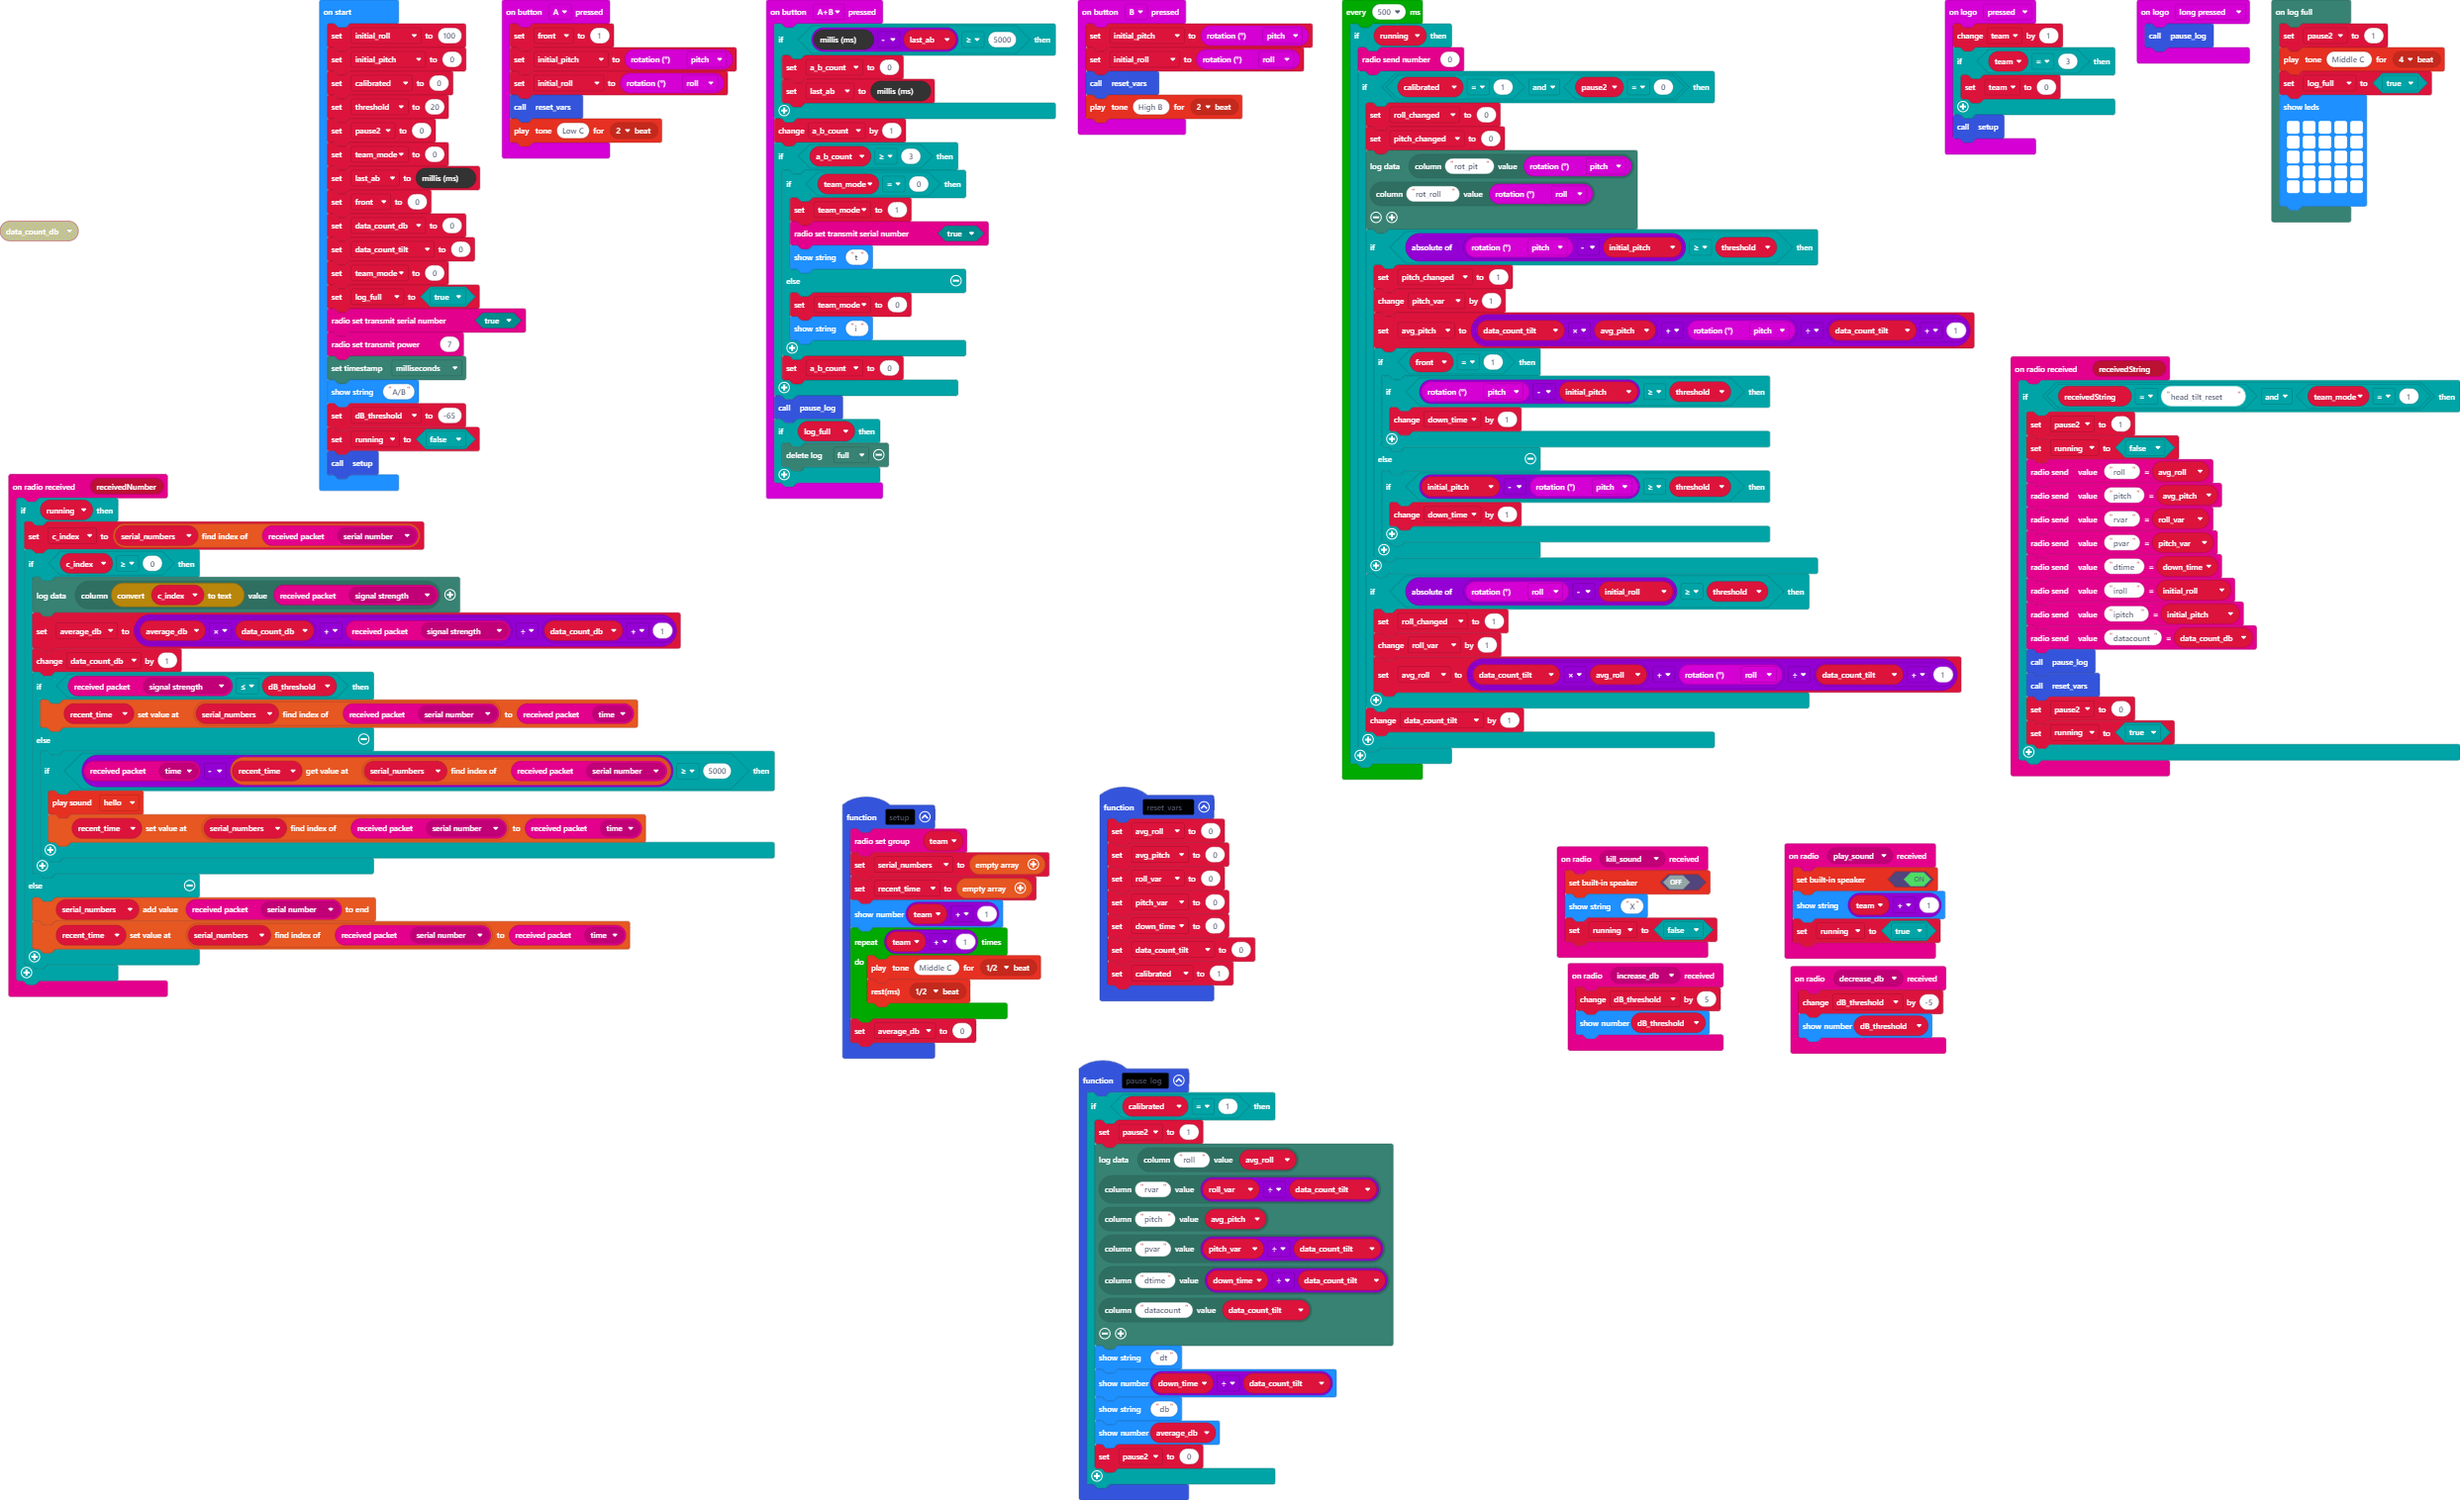
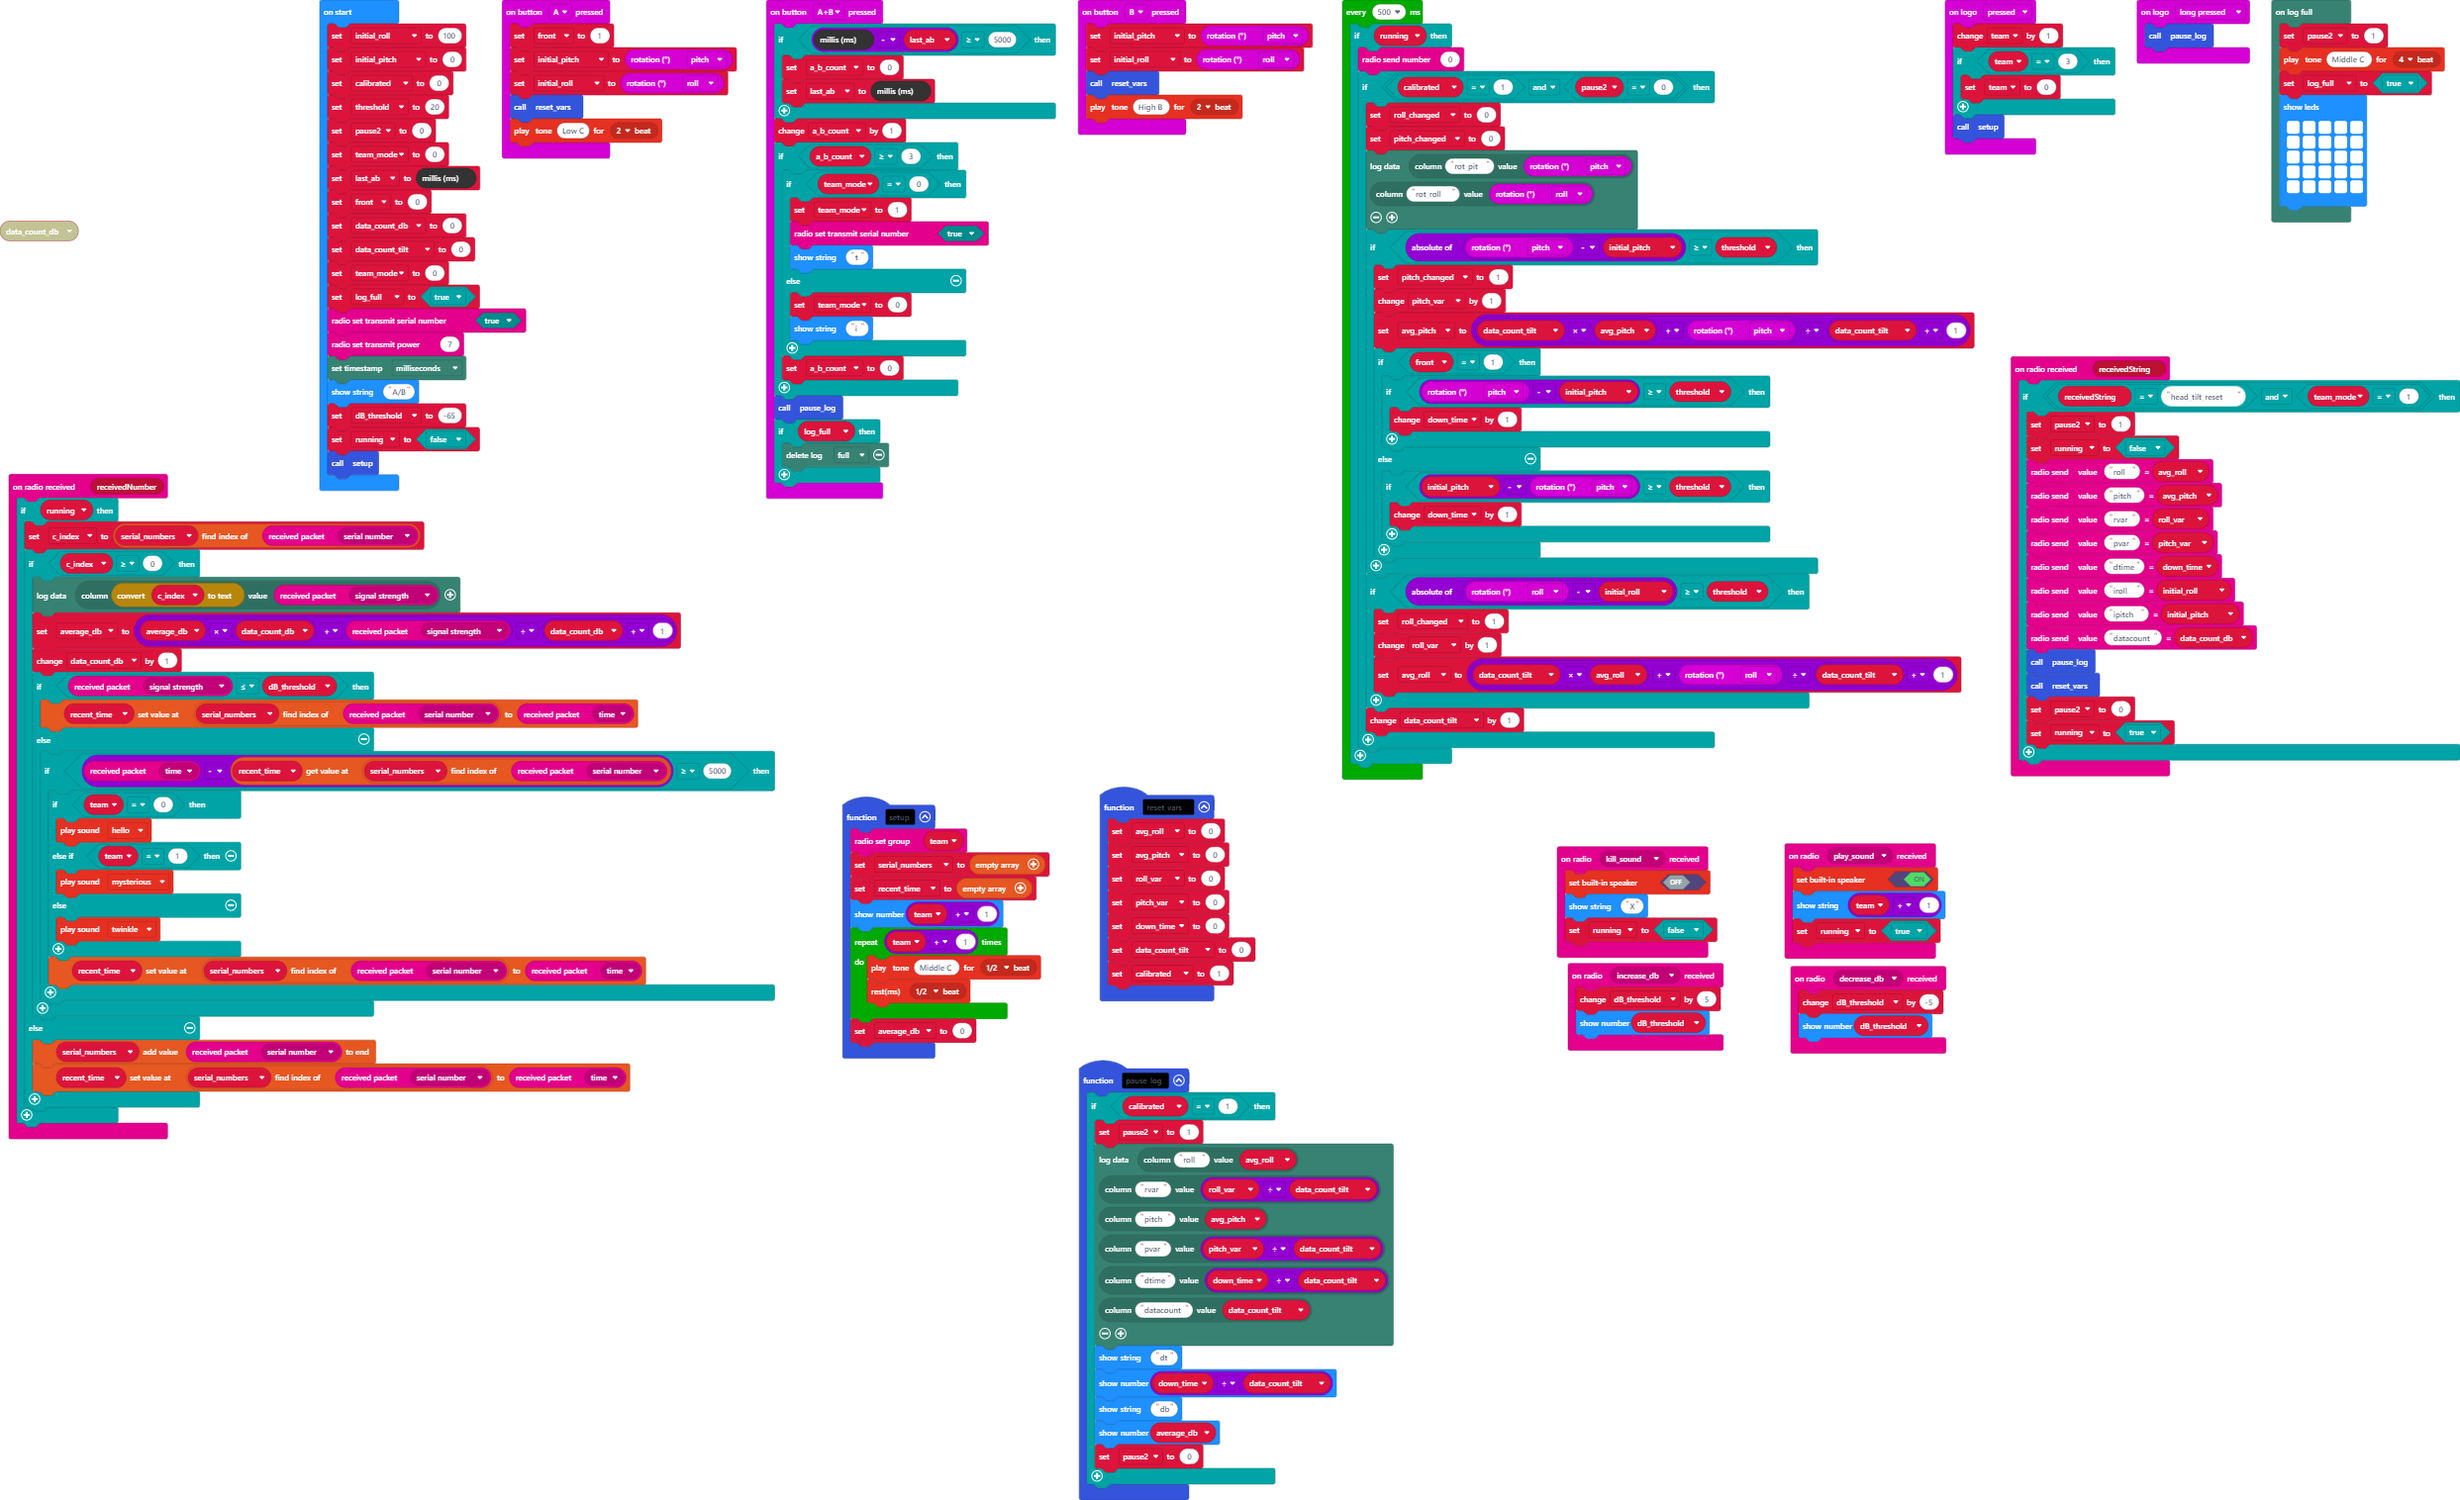
Update main.blocks, main.ts

Changed region(s): [[0.0, 0.527, 0.3099, 0.7751]]

diff --git a/main.ts b/main.ts
@@ -17,7 +17,13 @@ radio.onReceivedNumber(function (receivedNumber) {
                 recent_time[serial_numbers.indexOf(radio.receivedPacket(RadioPacketProperty.SerialNumber))] = radio.receivedPacket(RadioPacketProperty.Time)
             } else {
                 if (radio.receivedPacket(RadioPacketProperty.Time) - recent_time[serial_numbers.indexOf(radio.receivedPacket(RadioPacketProperty.SerialNumber))] >= 5000) {
-                    soundExpression.hello.play()
+                    if (team == 0) {
+                        soundExpression.hello.play()
+                    } else if (team == 1) {
+                        soundExpression.mysterious.play()
+                    } else {
+                        soundExpression.twinkle.play()
+                    }
                     recent_time[serial_numbers.indexOf(radio.receivedPacket(RadioPacketProperty.SerialNumber))] = radio.receivedPacket(RadioPacketProperty.Time)
                 }
             }
@@ -160,13 +166,13 @@ input.onLogoEvent(TouchButtonEvent.Pressed, function () {
 })
 let pitch_changed = 0
 let roll_changed = 0
-let team = 0
 let a_b_count = 0
 let down_time = 0
 let pitch_var = 0
 let avg_pitch = 0
 let roll_var = 0
 let avg_roll = 0
+let team = 0
 let recent_time: number[] = []
 let average_db = 0
 let serial_numbers: number[] = []
